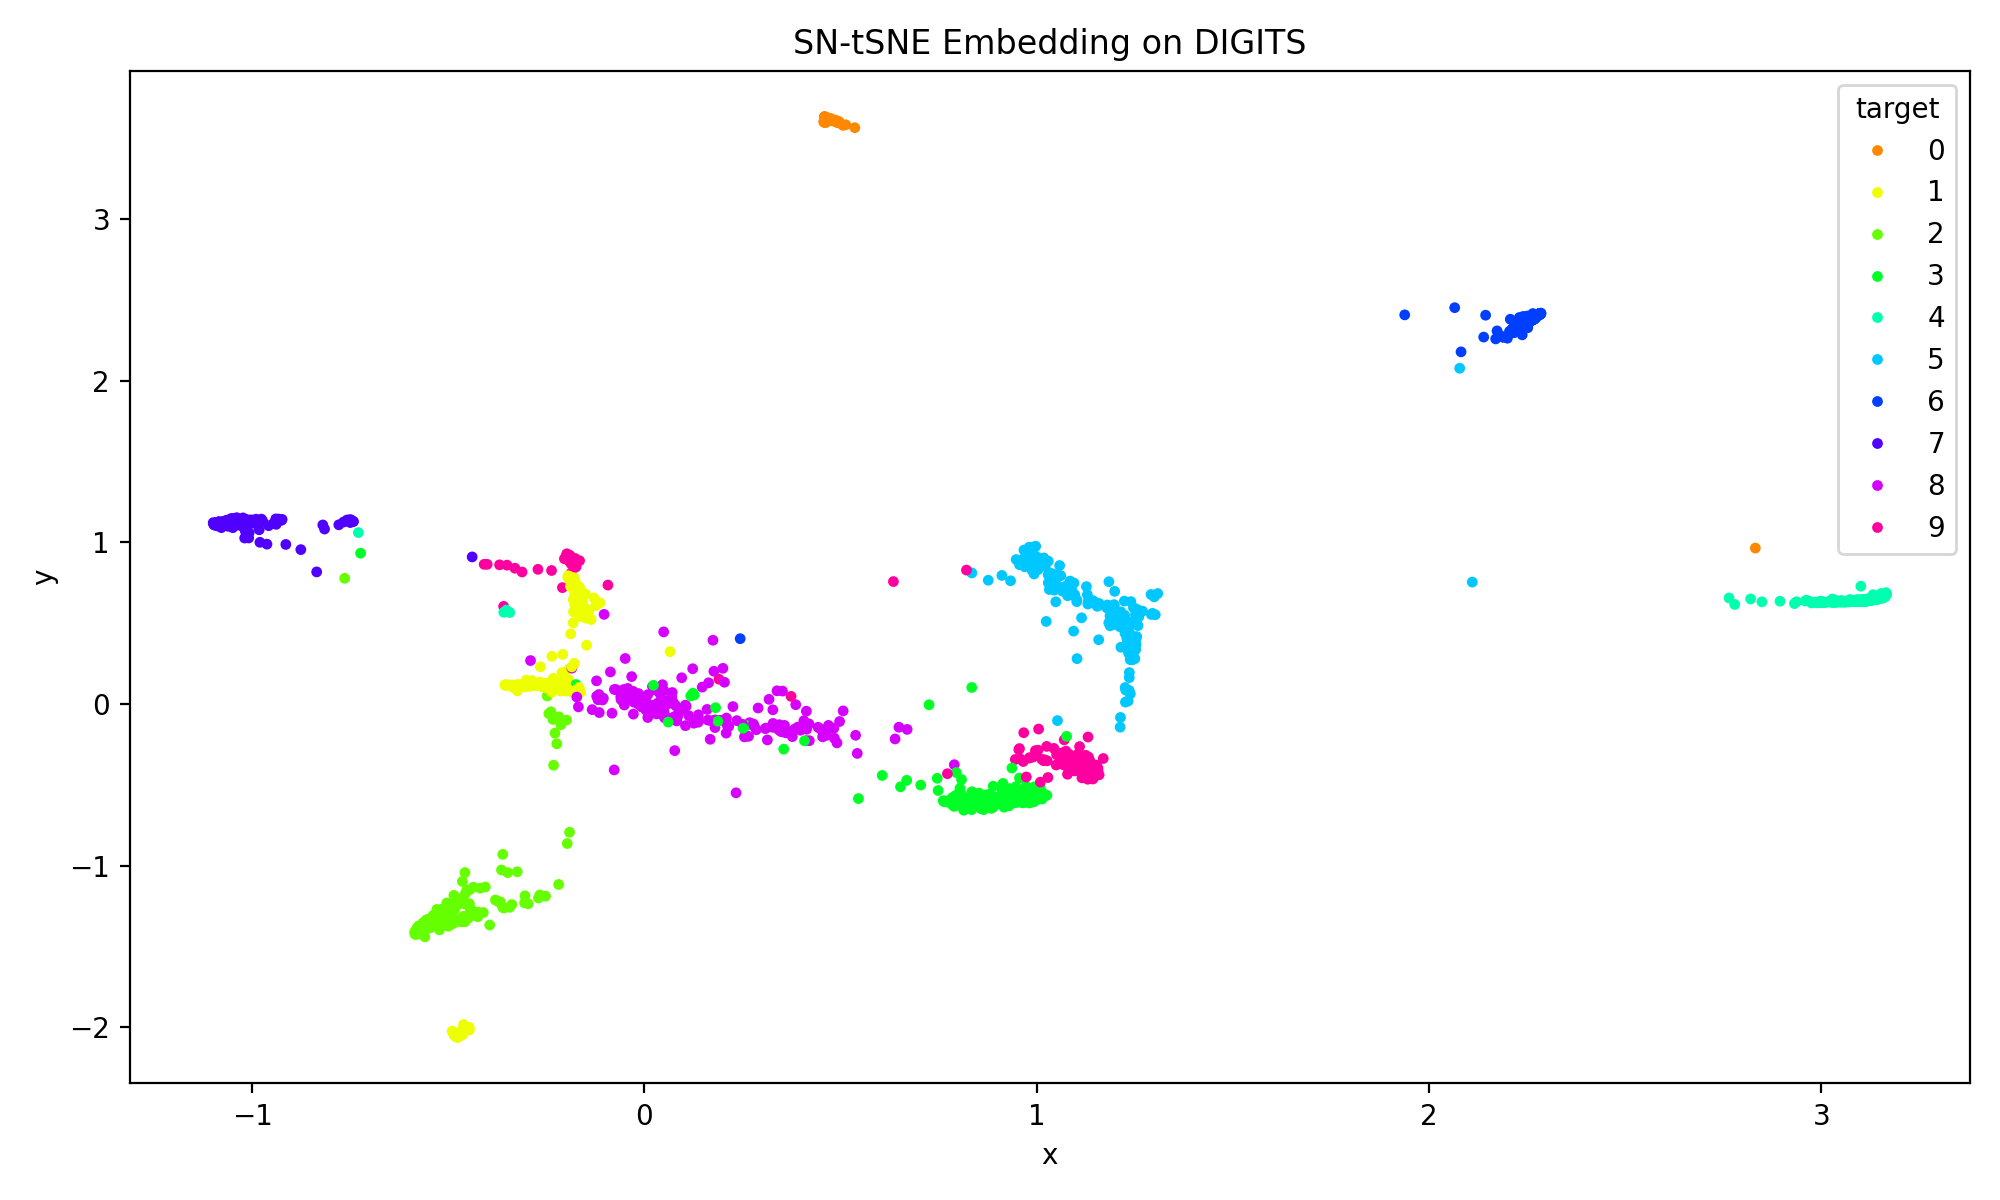
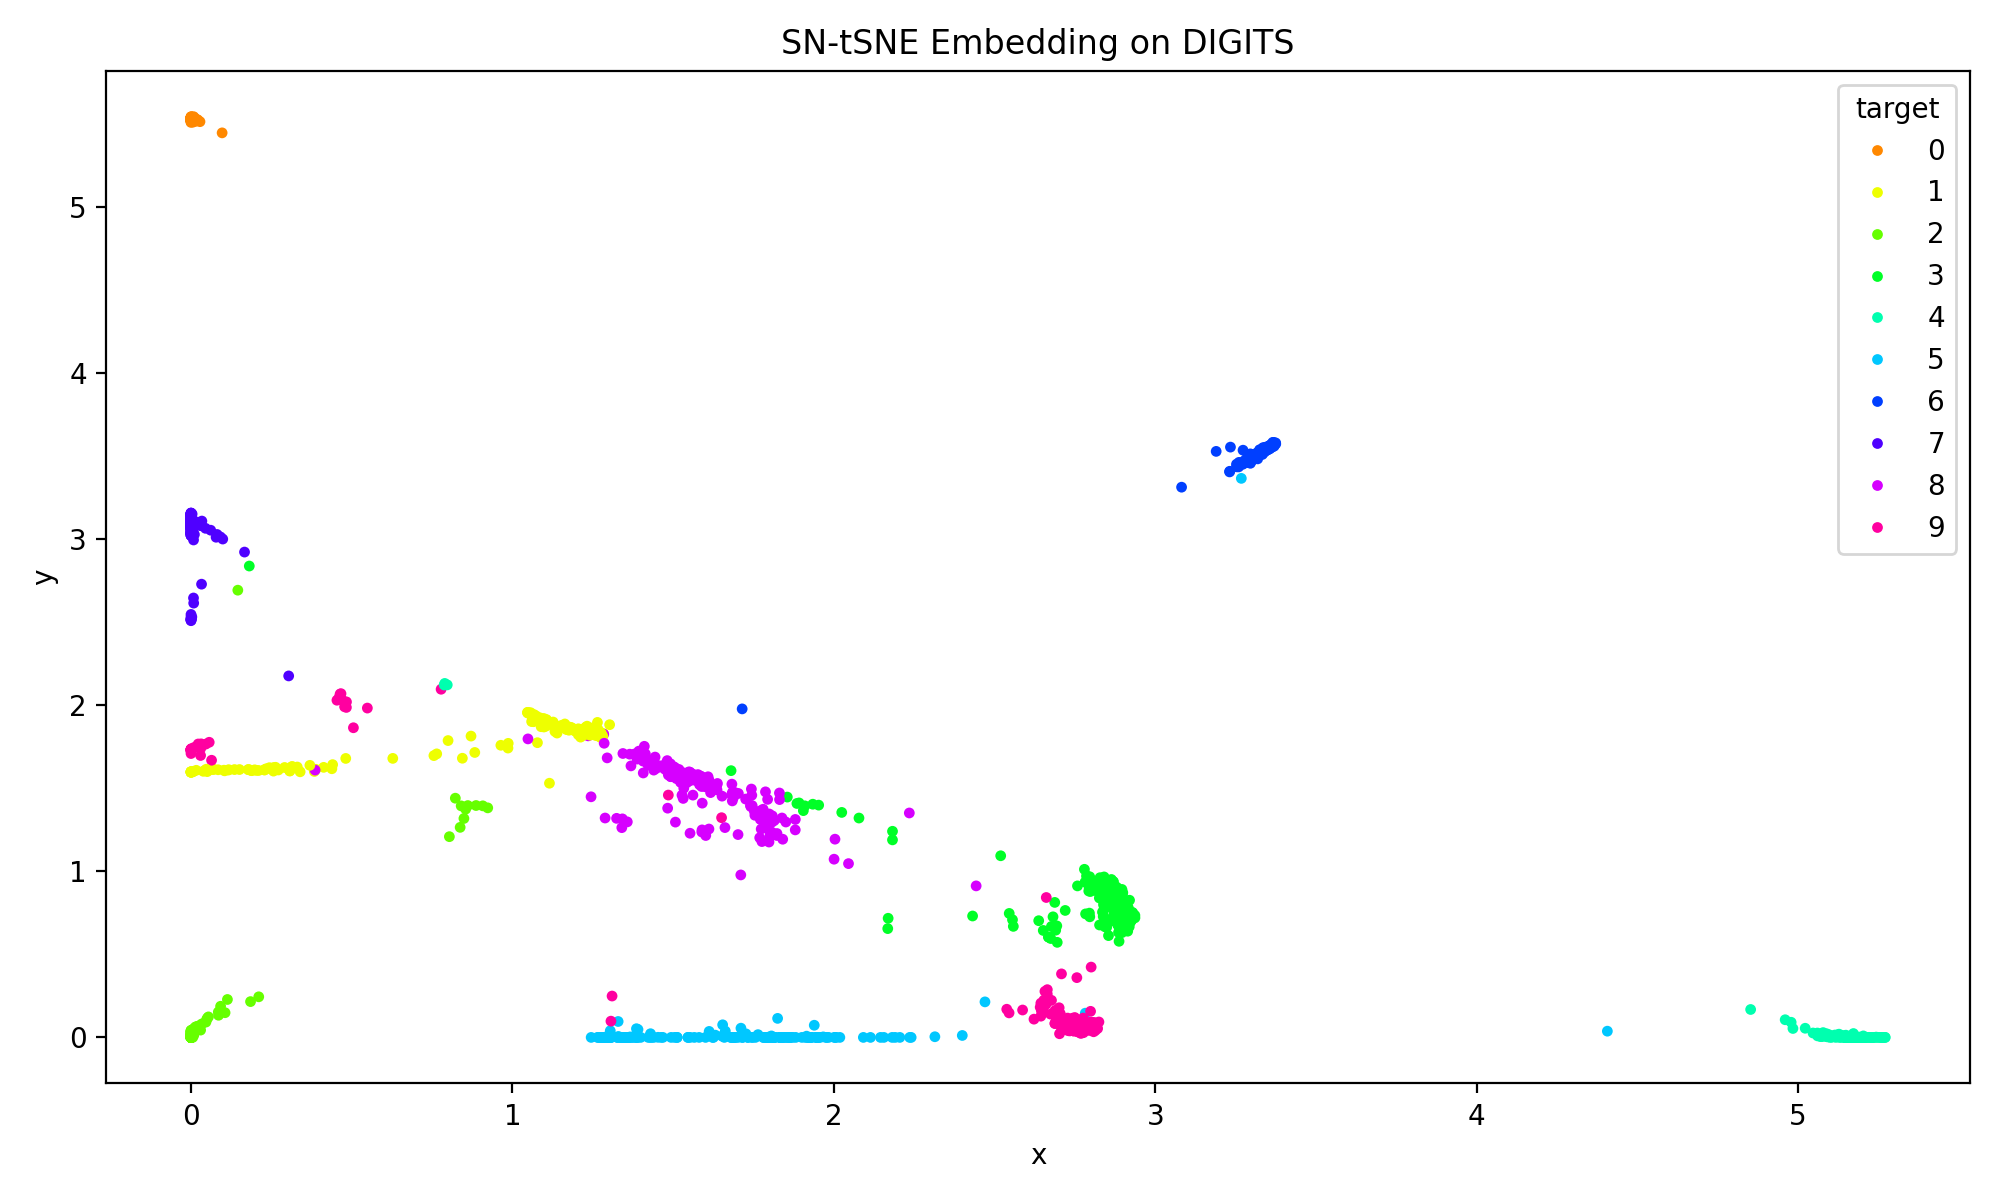
Save local updates before rebase

diff --git a/export_to_csv.py b/export_to_csv.py
@@ -1,0 +1,56 @@
+# export_isolet_only.py
+import os, sys
+import numpy as np
+import pandas as pd
+
+def write_csv(arr, path):
+    os.makedirs(os.path.dirname(path), exist_ok=True)
+    pd.DataFrame(arr).to_csv(path, header=False, index=False)
+
+def main(root):
+    # Accept both root/isolet*.data and root/isolet/isolet*.data
+    candidates = [
+        os.path.join(root, "isolet1+2+3+4.data"),
+        os.path.join(root, "isolet", "isolet1+2+3+4.data"),
+    ]
+    train_path = next((p for p in candidates if os.path.isfile(p)), None)
+
+    candidates = [
+        os.path.join(root, "isolet5.data"),
+        os.path.join(root, "isolet", "isolet5.data"),
+    ]
+    test_path = next((p for p in candidates if os.path.isfile(p)), None)
+
+    if not train_path or not test_path:
+        print("[ISOLET] ERROR: could not find isolet1+2+3+4.data and/or isolet5.data")
+        print("  looked for:", train_path, "and", test_path)
+        sys.exit(1)
+
+    print(f"[ISOLET] reading:\n  {train_path}\n  {test_path}")
+    A = pd.read_csv(train_path, header=None).values
+    B = pd.read_csv(test_path, header=None).values
+    if A.shape[1] != B.shape[1]:
+        print("[ISOLET] ERROR: feature mismatch between train/test")
+        sys.exit(1)
+
+    feat = A.shape[1] - 1
+    X = np.vstack([A[:, :feat], B[:, :feat]]).astype(np.float32)
+    y = np.concatenate([A[:, -1], B[:, -1]]).astype(np.int64)
+    # shift 1..26 -> 0..25 (guard if already zero-based)
+    if y.min() == 1:
+        y = y - 1
+
+    out_dir = os.path.join(root, "isolet")
+    os.makedirs(out_dir, exist_ok=True)
+    write_csv(X, os.path.join(out_dir, "X.csv"))
+    write_csv(y.reshape(-1,1), os.path.join(out_dir, "y.csv"))
+    print(f"[ISOLET] wrote:\n  {out_dir}/X.csv (shape {X.shape})\n  {out_dir}/y.csv (shape {y.shape})")
+
+if __name__ == "__main__":
+    if len(sys.argv) < 2:
+        print("Usage: python export_isolet_only.py /path/to/Datasets")
+        sys.exit(1)
+    # normalize trailing slash
+    root = sys.argv[1].rstrip("/")
+
+    main(root)
